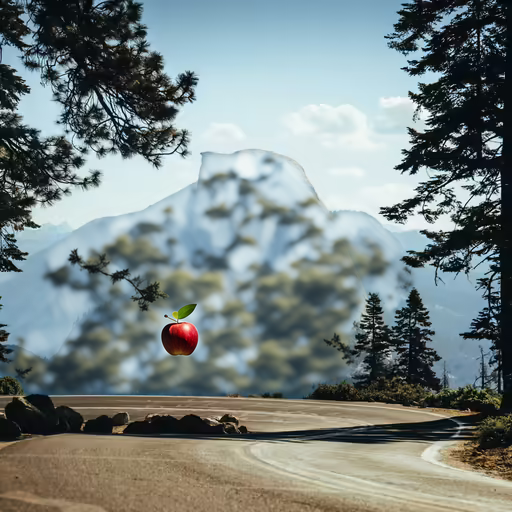
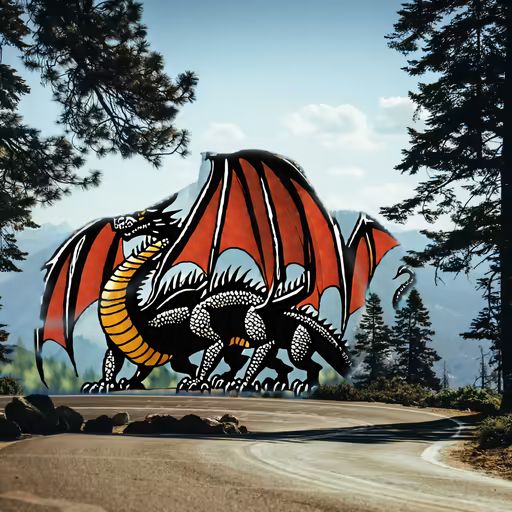
generate partial samples

Changed region(s): [[0.0, 0.2812, 0.8125, 0.7812]]

diff --git a/generator/edit_image_generator.py b/generator/edit_image_generator.py
@@ -16,17 +16,19 @@ class EditImageGenerator:
         print("\nedit image...")
         parameter = {
             "prompt": target_prompt,
-            "negative_prompt": "",
+            "negative_prompt": "nsfw, bad_quality",
             "seed": -1,
             "init_images": [
                 self.img2base64(image_path)
             ],
             "mask": self.img2base64("./output/mask/sam_mask1.png"),
-            "inpainting_fill": 0,
+            "inpainting_fill": 2,
             "width": "1024",
             "height": "1024",
-            "denoising_strength": 0.7,
-            "cfg_scale": 8
+            "denoising_strength": 0.8,
+            "cfg_scale": 10,
+            "steps": 28,
+            "sampler_index": "DPM++ 2M Karras",
         }
 
         response = requests.post(self.imi_url, data=json.dumps(parameter))
@@ -39,6 +41,6 @@ class EditImageGenerator:
 
 if __name__ == '__main__':
     edit = EditImageGenerator(host="127.0.0.1", port="7860")
-    image_path = "../input/inpainting.png"
+    image_path = "../input/586877.jpg"
     mask_path = "../input/mask.png"
-    edit.gen_edit_image("dragon", image_path)
+    edit.gen_edit_image("pocket", image_path)

diff --git a/discriminator/gpt_discriminator.py b/discriminator/gpt_discriminator.py
@@ -10,7 +10,7 @@ class GPTDiscriminator:
         openai.api_key = api_key
         self.gpt_model = "gpt-4"
         # self.gpt_model = "gpt-35-turbo"
-        self.respond_format_prompt = 'please respond json like this format: input: Turn the refrigerator into a bookshelf with books. output: { "mask_prompt": "refrigerator", "target_prompt": "a bookshelf with books"}'
+        self.respond_format_prompt = 'please give me the respond json such as input: Turn the refrigerator into a bookshelf with books. so the output like this format: { "mask_prompt": "refrigerator", "target_prompt": "a bookshelf with books"}'
 
     def get_completions(self, msg):
         completions = openai.ChatCompletion.create(

diff --git a/run.py b/run.py
@@ -10,7 +10,7 @@ if __name__ == '__main__':
         port = config['base_config']['port']
         gpt_key = config['api_key']['gpt']
 
-    instruction = "Make the mountain an apple."
+    instruction = "Turn the mountain into a dragon"
     image_path = "./input/inpainting.png"
 
     gpt = GPTDiscriminator(gpt_key)
@@ -21,3 +21,4 @@ if __name__ == '__main__':
 
     edit = EditImageGenerator(host=host, port=port)
     edit.gen_edit_image(predict_json['target_prompt'], image_path)
+
